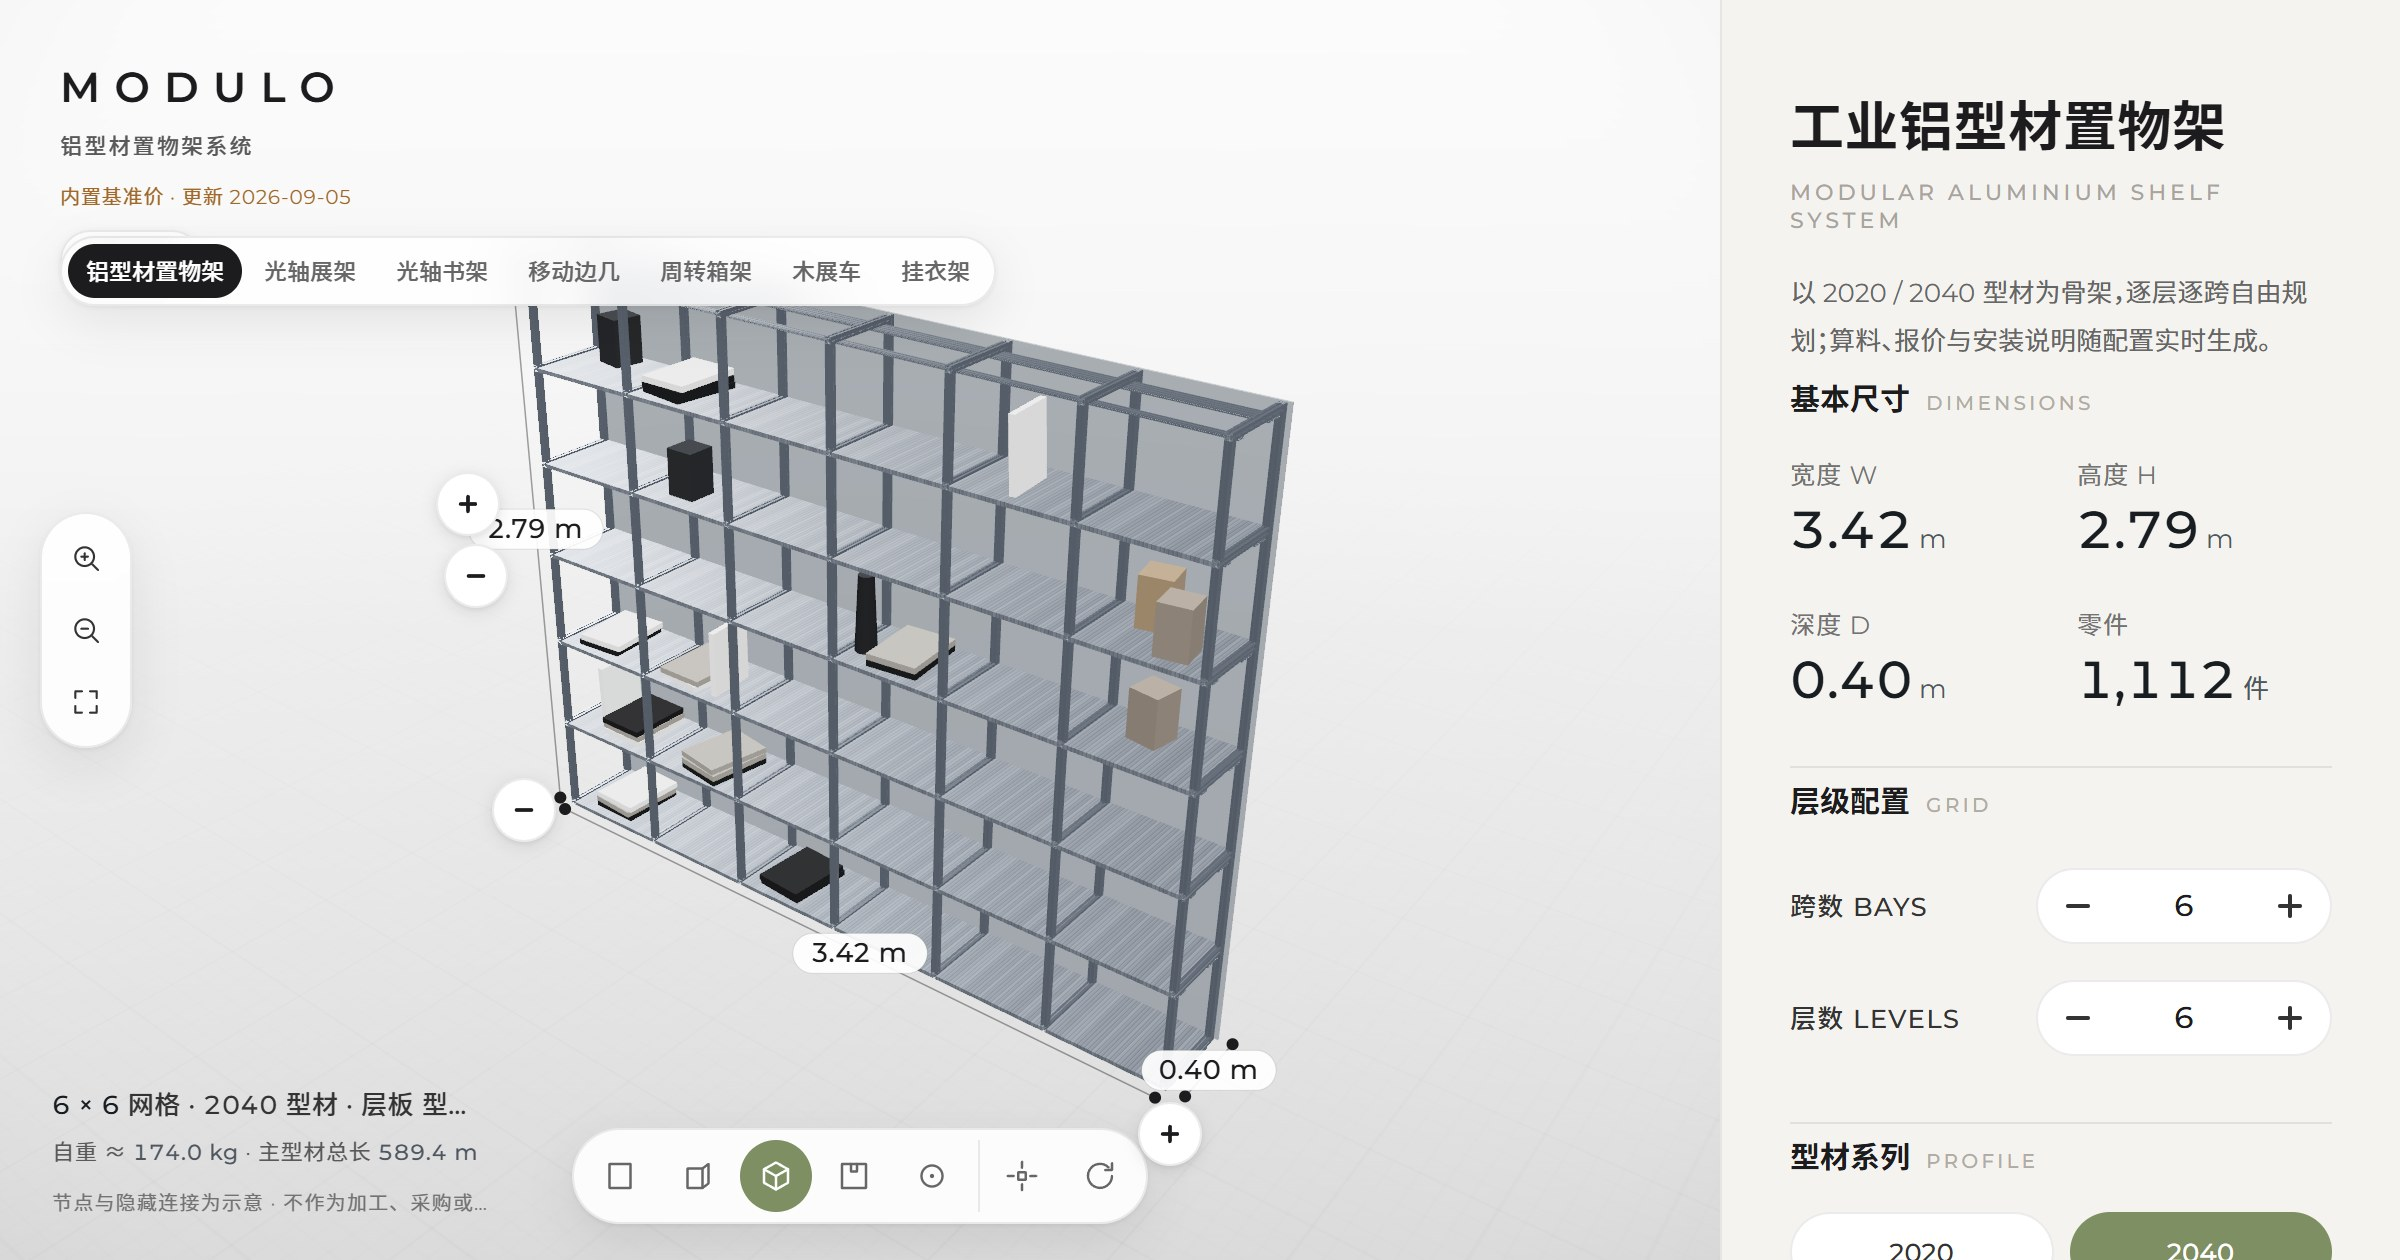
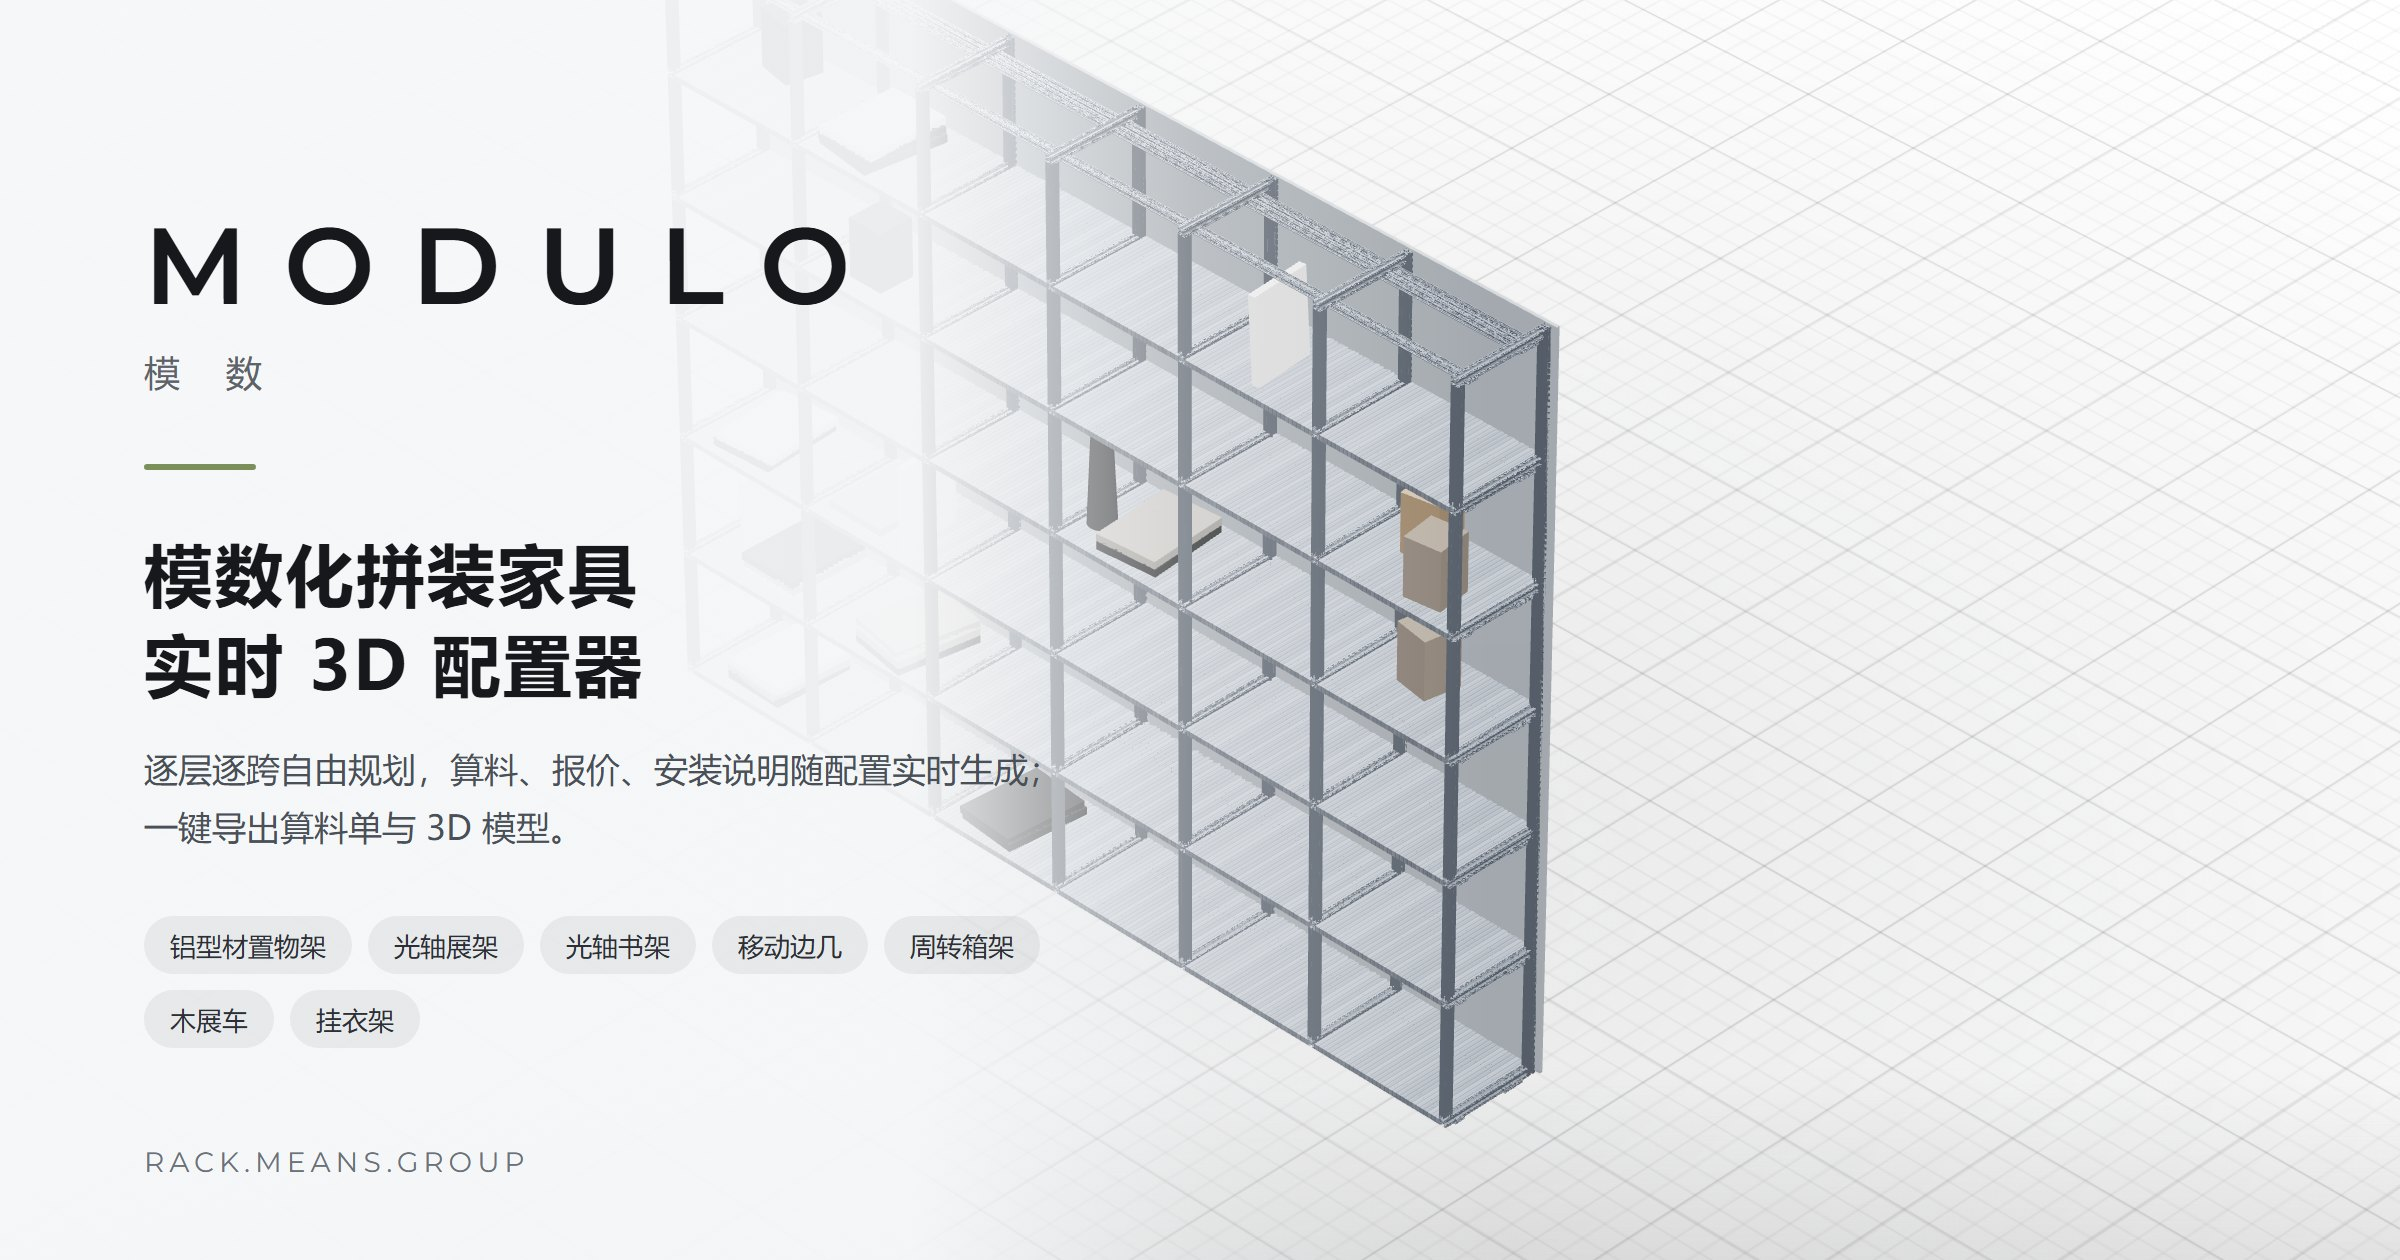
feat(og): 分享图换轴测主视觉——整架完整入画、文字区零重叠、标题改「模数化拼装家具」
- make-og 机位改等测轴测：方位 45°/仰角 35.26° + 6.7° 窄视角远机位（slant 33.5m），近角放大仅 ~9%，竖线平行无两点透视收敛；轴线对准模型投影包围盒中心，整架含顶帽/底角完整入画
- __ALU_VIEW 钩子补 fov 参数与 noClamp 选项（远机位突破 controls.maxDistance，仅 QA/OG 工具使用）
- 标题「参数化铝型材家具」→「模数化拼装家具」；文字区渐变遮罩加宽（实底到 38%），chips 与模型零重叠
- og:image 加 ?v=3 破社交平台旧图缓存；package.json 补 npm run og 脚本

diff --git a/src/main.js b/src/main.js
@@ -1177,9 +1177,12 @@ if (webglFailed) {
   };
   // QA 调试：暴露当前产品 group，供浏览器端逐 mesh 包围盒核查（对抗性审查用）
   window.__ALU_GROUP = () => active()?.group || null;
-  // QA 调试：静止机位（细节特写截图用），参数为世界坐标 [x,y,z]
-  window.__ALU_VIEW = (pos, tgt) => {
+  // QA / 素材：静止机位（细节特写、OG 分享图），参数为世界坐标 [x,y,z]；fov 可选（度）
+  window.__ALU_VIEW = (pos, tgt, fov, opts) => {
     controls.autoRotate = false;
+    // OG/轴测机位：窄视角 + 远机位需突破 maxDistance 钳制（仅 QA/OG 工具传 opts，常规会话不受影响）
+    if (opts && opts.noClamp) { controls.maxDistance = 200; controls.minDistance = 0.01; }
+    if (fov) { camera.fov = fov; camera.updateProjectionMatrix(); }
     camera.position.set(pos[0], pos[1], pos[2]);
     controls.target.set(tgt[0], tgt[1], tgt[2]);
     controls.update();

diff --git a/index.html b/index.html
@@ -11,7 +11,7 @@
   <meta property="og:title" content="MODULO 模数 · 铝型材置物架配置器" />
   <meta property="og:description" content="逐层逐跨自由规划，实时算料报价，一键导出算料单与 3D 模型。" />
   <meta property="og:url" content="https://rack.means.group/" />
-  <meta property="og:image" content="https://rack.means.group/og-cover.jpg" />
+  <meta property="og:image" content="https://rack.means.group/og-cover.jpg?v=3" />
   <meta name="twitter:card" content="summary_large_image" />
   <meta name="theme-color" content="#eceff1" />
 </head>
